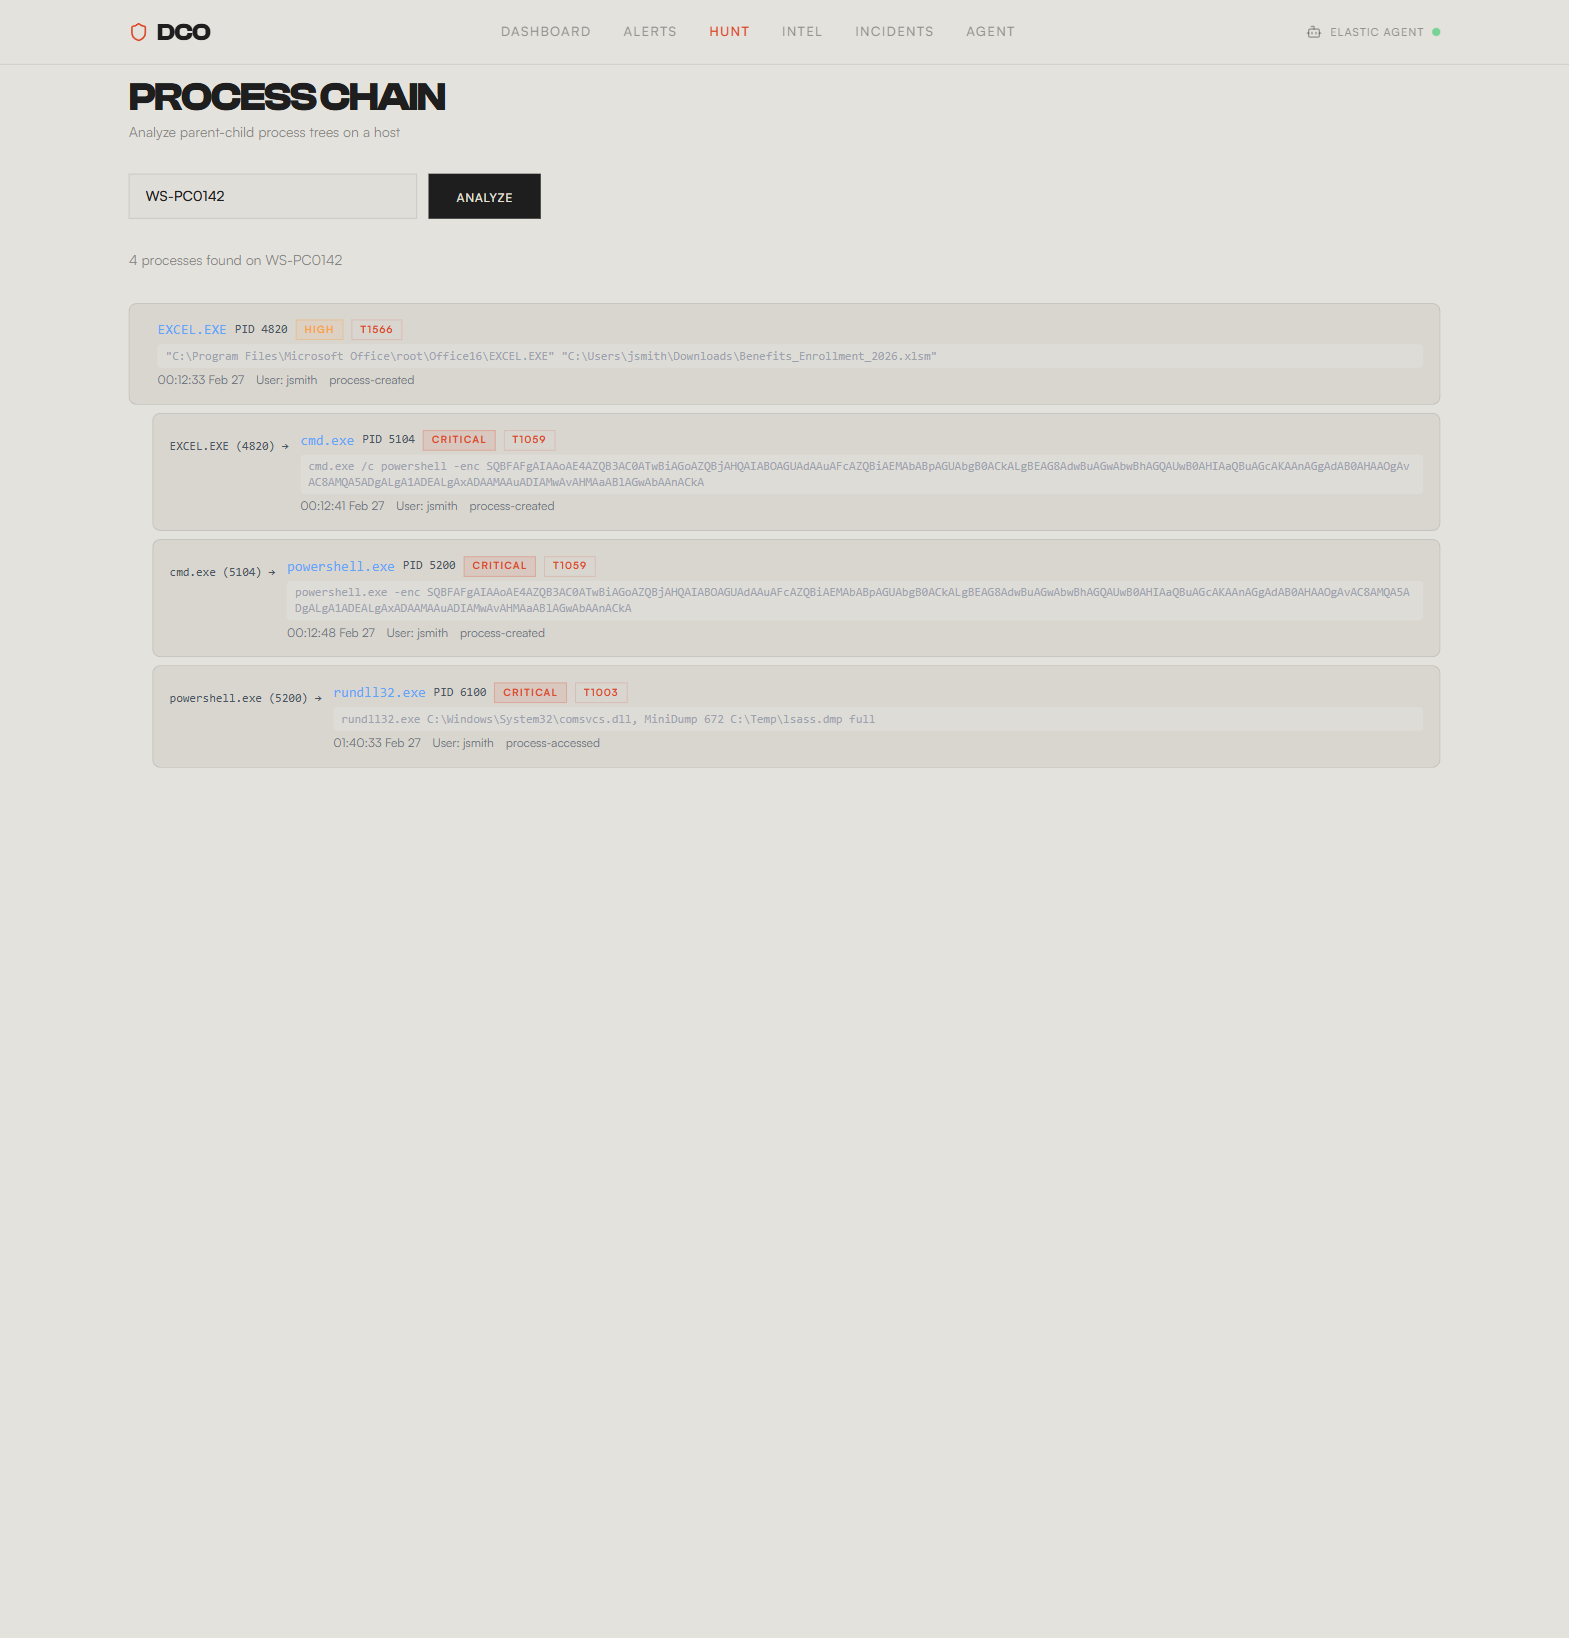
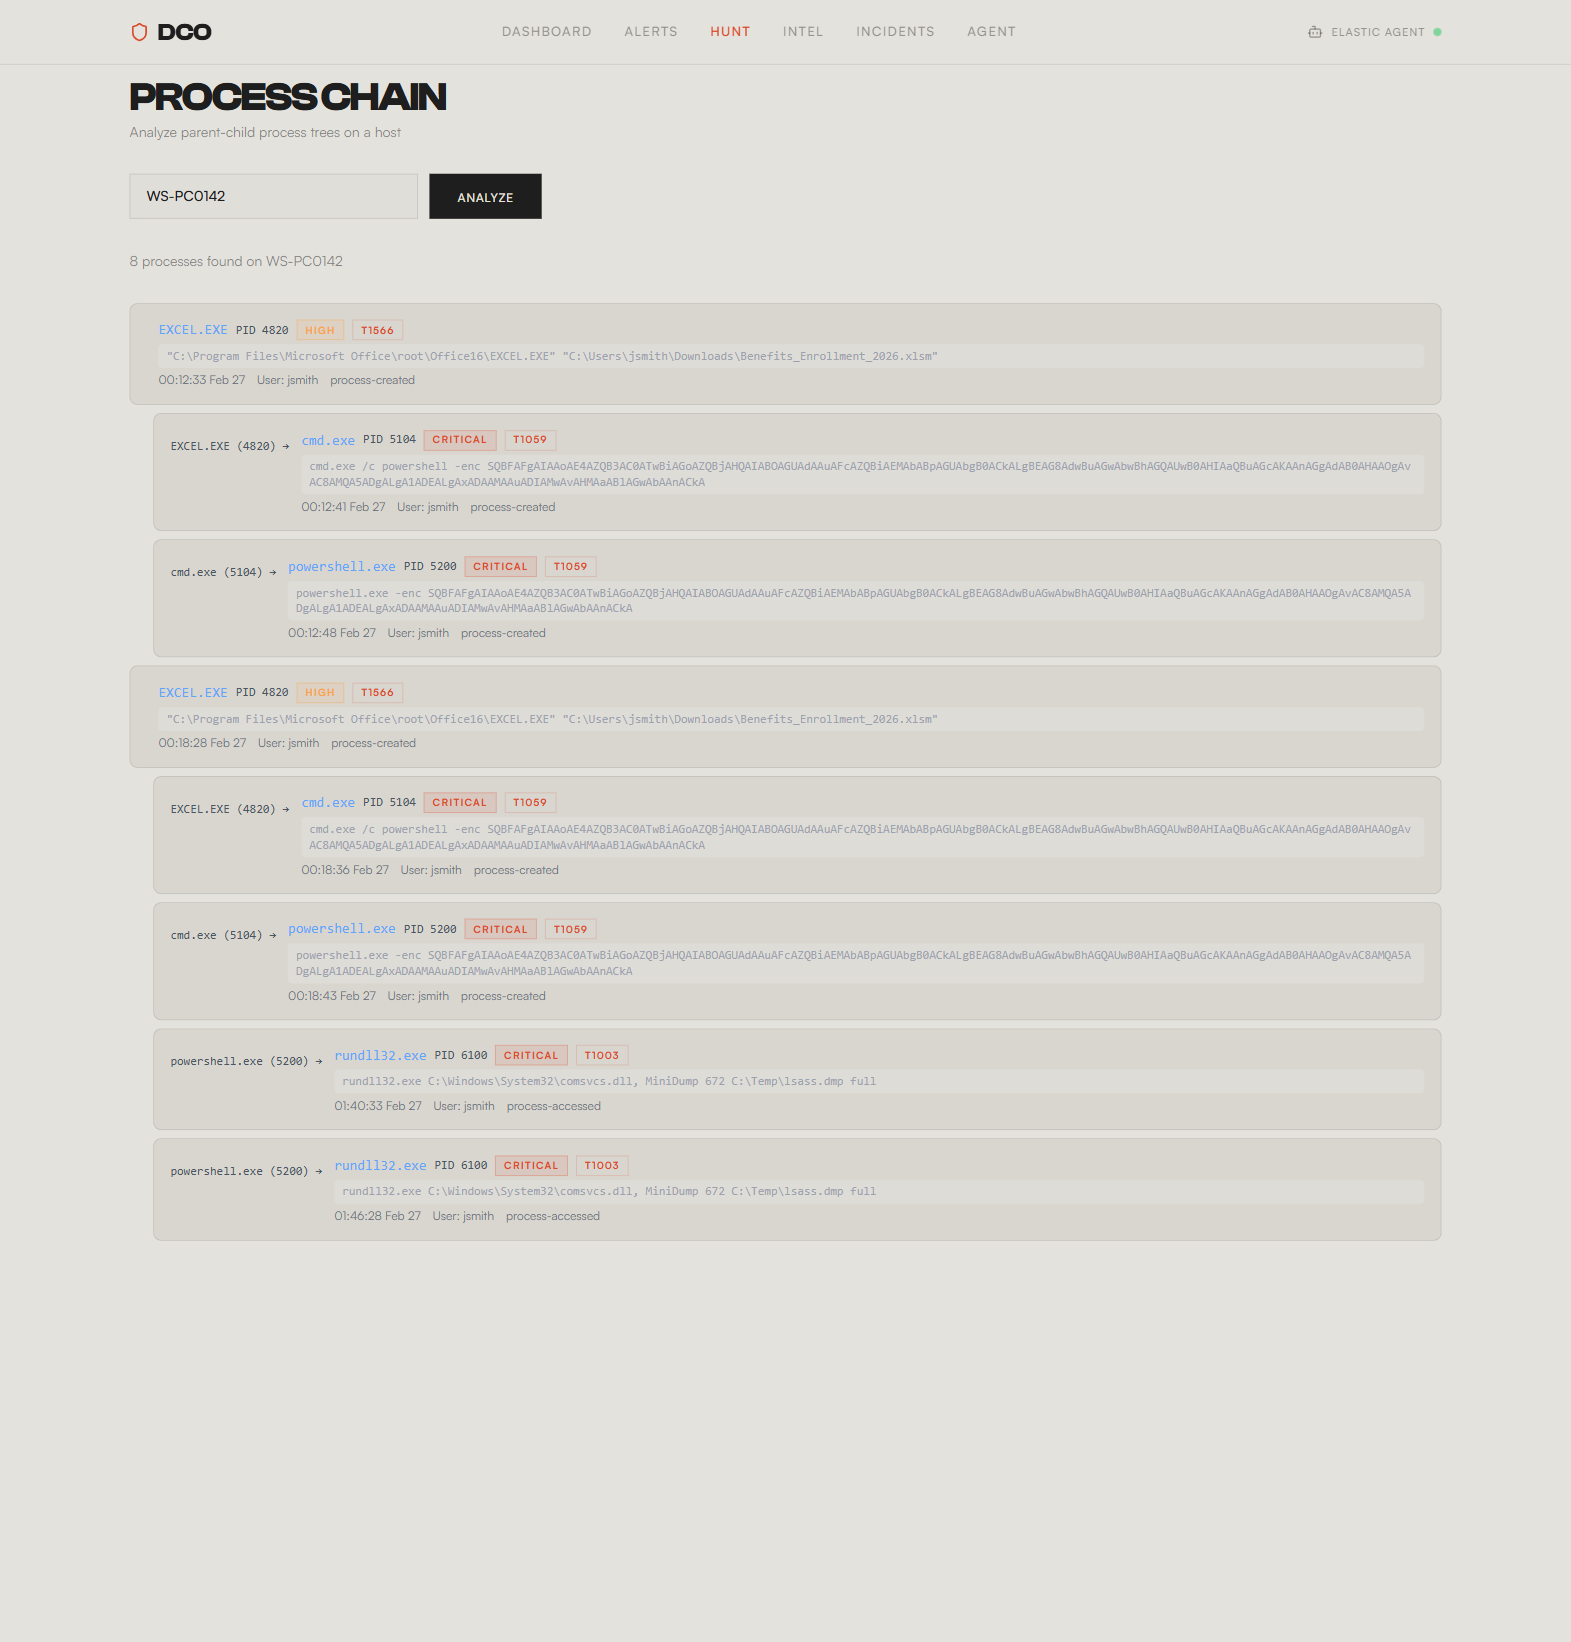
Update writeup and refresh demo screenshots

diff --git a/WRITEUP.md b/WRITEUP.md
@@ -29,8 +29,6 @@ All of this happens through **7 custom tools** orchestrated by a single Agent Bu
 
 **[Watch the 3-minute demo on YouTube →](https://youtu.be/YOUR_VIDEO_ID_HERE)**
 
-![DCO Threat Triage Agent — Demo](demo.gif)
-
 The demo walks through the full system:
 
 | Timestamp | Scene | What You'll See |
@@ -40,20 +38,20 @@ The demo walks through the full system:
 | 0:16–0:24 | **Architecture Diagram** | Full data flow — Agent Builder → 7 tools → 3 Elasticsearch indices |
 | 0:24–0:30 | **Kill Chain Timeline** | 5-stage MITRE ATT&CK attack chain visualization |
 | 0:30–0:42 | **Alerts, Intel, Incidents** | Raw security data — 105 alerts, 18 IOCs, incident records |
-| 0:42–0:55 | **Agent Chat** | 7 tool badges, green "Agent Builder" indicator, typing triage prompt |
-| 0:55–1:50 | **Running Agent Tools** | Live Agent Builder processing — ES|QL queries executing in real time |
-| 1:50–2:30 | **Triage Results** | Full structured report: TRUE POSITIVE, P1 Critical, Risk Score 95/100, MITRE mapping, containment recommendations |
-| 2:30–2:55 | **Execution Trace** | 16-step tool execution trace + 7 tool badges — proof of autonomous Agent Builder orchestration |
+| 0:42–1:05 | **Agent Chat** | 7 tool badges, green "Agent Builder" indicator, typing triage prompt |
+| 1:05–1:42 | **Running Agent Tools** | Agent Builder processing (sped up 3×) — ES|QL queries executing in real time |
+| 1:42–2:17 | **Triage Results** | Full structured report: TRUE POSITIVE, P1 Critical, Risk Score 95/100, MITRE mapping |
+| 2:17–2:50 | **Execution Trace** | Tool execution trace + 7 tool badges — proof of autonomous Agent Builder orchestration |
 
-The agent receives a single natural language prompt — *"Triage the latest critical alerts from 10.10.15.42"* — and autonomously runs 16 reasoning steps across all 7 tools to produce a complete investigation report in under 2 minutes.
+The agent receives a single natural language prompt — *"Triage the latest critical alerts from 10.10.15.42"* — and autonomously runs multiple reasoning steps across all 7 tools to produce a complete investigation report in under 2 minutes. *(The loading section is sped up 3× in the demo to fit within 3 minutes.)*
 
 ---
 
 ## Architecture Overview
 
-![Dashboard with Architecture Diagram](screenshots/after/01-dashboard-hero.png)
+![Dashboard with Architecture Diagram](screenshots/demo/dashboard.png)
 
-The frontend dashboard shows the full architecture at a glance. **Elastic Agent Builder** sits at the center, connecting the **DCO Triage Agent** (powered by Claude Sonnet 4.5) to **3 Elasticsearch indices** through **7 specialized tools**. The dashboard displays live stats — 105 security alerts, 5 critical threats, and a real-time connection indicator to Agent Builder.
+The frontend dashboard shows the full architecture at a glance. **Elastic Agent Builder** sits at the center, connecting the **DCO Triage Agent** (powered by Claude Sonnet 4.5) to **3 Elasticsearch indices** through **7 specialized tools**. The dashboard displays live stats — 315 security alerts, 15 critical threats, and a real-time connection indicator to Agent Builder.
 
 The architecture flows like this:
 
@@ -178,18 +176,18 @@ The native **Agent Chat** inside Kibana shows the DCO Triage Agent selected with
 
 ### Threat Command Dashboard
 
-![Dashboard — Threat Command](screenshots/after/01-dashboard-hero.png)
+![Dashboard — Threat Command](screenshots/demo/dashboard.png)
 
 The main dashboard provides situational awareness at a glance:
-- **105 total alerts** in the `security-alerts` index
-- **5 critical threats** and **8 high-severity** alerts
+- **315 total alerts** in the `security-alerts` index
+- **15 critical threats** and **24 high-severity** alerts
 - **Elastic Agent Builder** connection status (green = connected)
 - **7 tool badges** showing all tools available to the agent
 - **Architecture diagram** showing the full data flow
 
 ### Security Alerts Table
 
-![Alerts Page](screenshots/after/04-alerts-page.png)
+![Alerts Page](screenshots/demo/alerts.png)
 
 The **Alerts** page shows all 105 security events — the raw data that the agent triages. Alerts include the 5-stage MITRE ATT&CK kill chain (Initial Access → Execution → Credential Access → Lateral Movement → Exfiltration) mixed with ~71 benign noise events. This is the needle-in-a-haystack problem the agent solves.
 
@@ -211,10 +209,16 @@ The frontend exposes each of the agent's ES|QL tools as standalone hunt pages, s
 | **Process Chain** | `process_chain_analysis` | Parent-child process trees on a host |
 
 ![Hunt — Correlated Events](screenshots/demo/hunt-correlate.png)
-*Correlated Events hunt page — enter an IP and get a chronological timeline. Uses the same ES|QL query as the agent's `correlated_events_by_ip` tool.*
+*Correlated Events hunt page — 64 events found for IP 10.10.15.42, showing the full kill chain from phishing (T1566) through C2 beaconing (T1071) to credential dumping (T1003) and exfiltration (T1041). Uses the same ES|QL query as the agent's `correlated_events_by_ip` tool.*
+
+![Hunt — Beaconing Detection](screenshots/demo/hunt-beaconing.png)
+*Beaconing Detection hunt page — detects C2 beacon pattern: 44 beacons to 198.51.100.23 (cdn-update.malwaredomain.net) at 296-second intervals, 490 MB total data exfiltrated. Uses the same ES|QL query as the agent's `beaconing_detection` tool.*
+
+![Hunt — Lateral Movement](screenshots/demo/hunt-lateral.png)
+*Lateral Movement hunt page — flags attacker IP 10.10.15.42 using admin_svc credentials across 3 hosts (SRV-DC01, SRV-FILE01, SRV-DB01) with HIGH risk. Uses the same ES|QL query as the agent's `lateral_movement_detection` tool.*
 
 ![Hunt — Process Chain](screenshots/demo/hunt-process.png)
-*Process Chain hunt page — enter a hostname (e.g., WS-PC0142) to inspect process trees. Same query as the agent's `process_chain_analysis` tool.*
+*Process Chain hunt page — 8 processes on WS-PC0142 revealing the classic attack chain: EXCEL.EXE (T1566) → cmd.exe (T1059) → powershell.exe (T1059) → rundll32.exe (T1003, LSASS credential dumping). Uses the same ES|QL query as the agent's `process_chain_analysis` tool.*
 
 ### Incident Log
 
@@ -228,7 +232,7 @@ The **Incidents** page shows formal incident records created by the agent's `inc
 
 ### Chat Interface with 7 Tool Badges
 
-![Frontend Agent Chat — Ready](screenshots/after/09-chat-hero-7tools.png)
+![Frontend Agent Chat — Ready](screenshots/demo/chat.png)
 
 The frontend Agent Chat page shows:
 - **"AGENT BUILDER"** badge — confirming the backend is Elastic Agent Builder (not a fallback)
